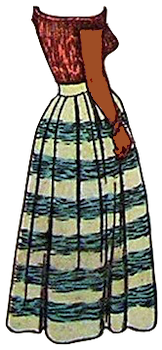
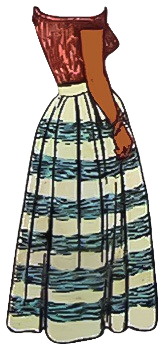
image correct and remaster png

Changed region(s): [[0.0309, 0.0, 0.9877, 1.0]]

diff --git a/styles.css b/styles.css
@@ -687,7 +687,7 @@ background-image: url("images/t1.png");
   }
 
   #t53 {
-    height: 730px;
+    height: 750px;
   }
 
   #t54 {
@@ -796,6 +796,10 @@ background-image: url("images/t1.png");
   .torchy-dress6 {
     top:10%; left:15%;
     height: 645px;
+  }
+
+  #t31 {
+    height: 625px;
   }
 
 
